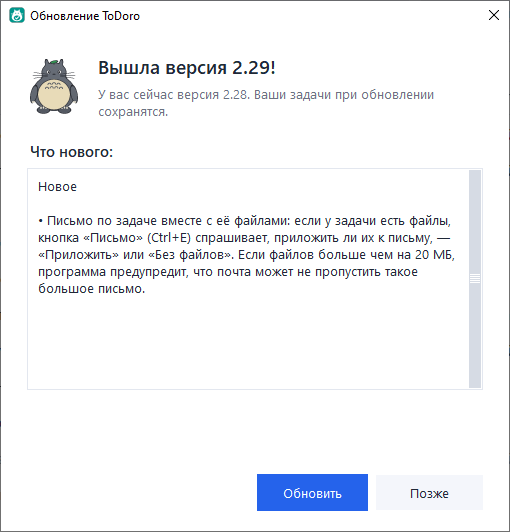
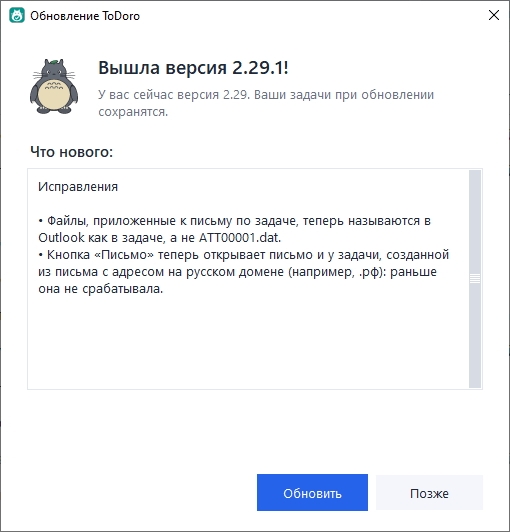
Версия 2.29.1

diff --git a/todoro.py b/todoro.py
@@ -43,7 +43,7 @@ from examples import make_examples
 from help_text import HELP
 
 APP_NAME = "ToDoro"  # ToDo + Totoro
-APP_VERSION = "2.29"  # номер версии — меняется здесь (установщик берёт его отсюда)
+APP_VERSION = "2.29.1"  # номер версии — меняется здесь (установщик берёт его отсюда)
 APP_YEAR = 2026
 COPYRIGHT_HOLDER = "Machinist Soft"  # автор — имя меняется здесь и в файле LICENSE
 COPYRIGHT = f"© {APP_YEAR} {COPYRIGHT_HOLDER}"

diff --git a/RELEASE_NOTES.md b/RELEASE_NOTES.md
@@ -3,10 +3,12 @@
 Здесь записано, что менялось от версии к версии. Новые записи — сверху.
 Скачать установщик любой версии: https://github.com/machinist-soft/ToDoro/releases
 
-## Не выпущено
+## 2.29.1 — 11.11.2026
+
+### Исправления
 
 - Файлы, приложенные к письму по задаче, теперь называются в Outlook как в задаче, а не ATT00001.dat.
-- Письмо по задаче из письма с адресом на русском домене (например, .рф) теперь открывается: раньше кнопка «Письмо» не срабатывала.
+- Кнопка «Письмо» теперь открывает письмо и у задачи, созданной из письма с адресом на русском домене (например, .рф): раньше она не срабатывала.
 
 ## 2.29 — 11.11.2026
 
